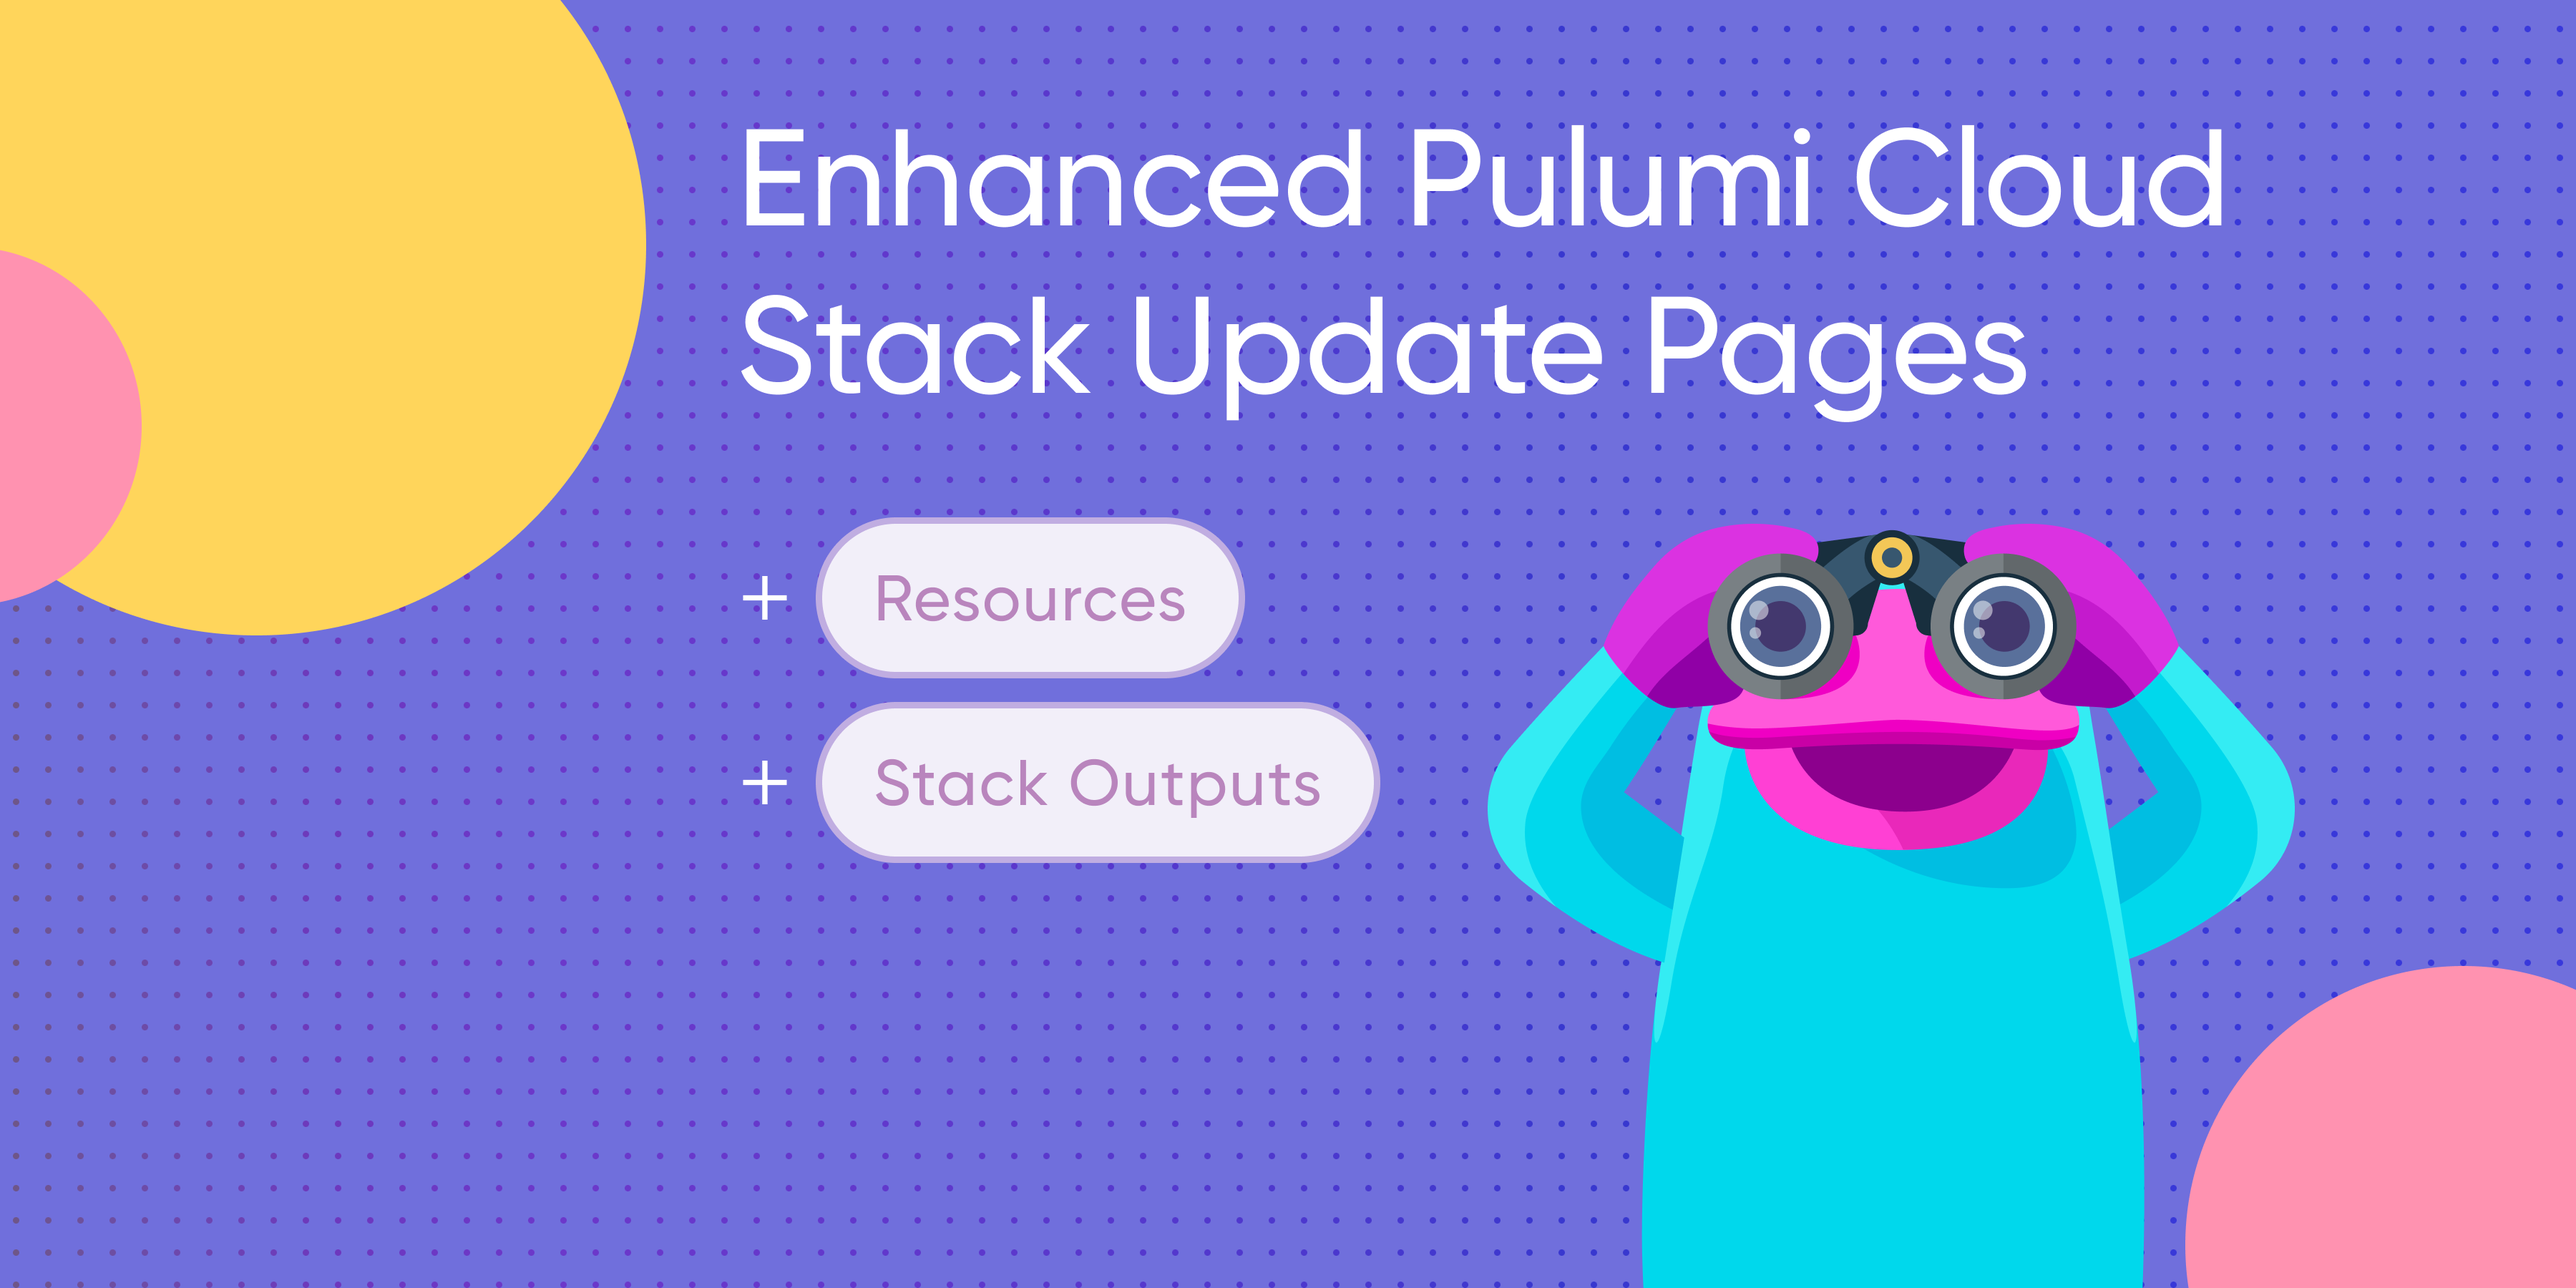
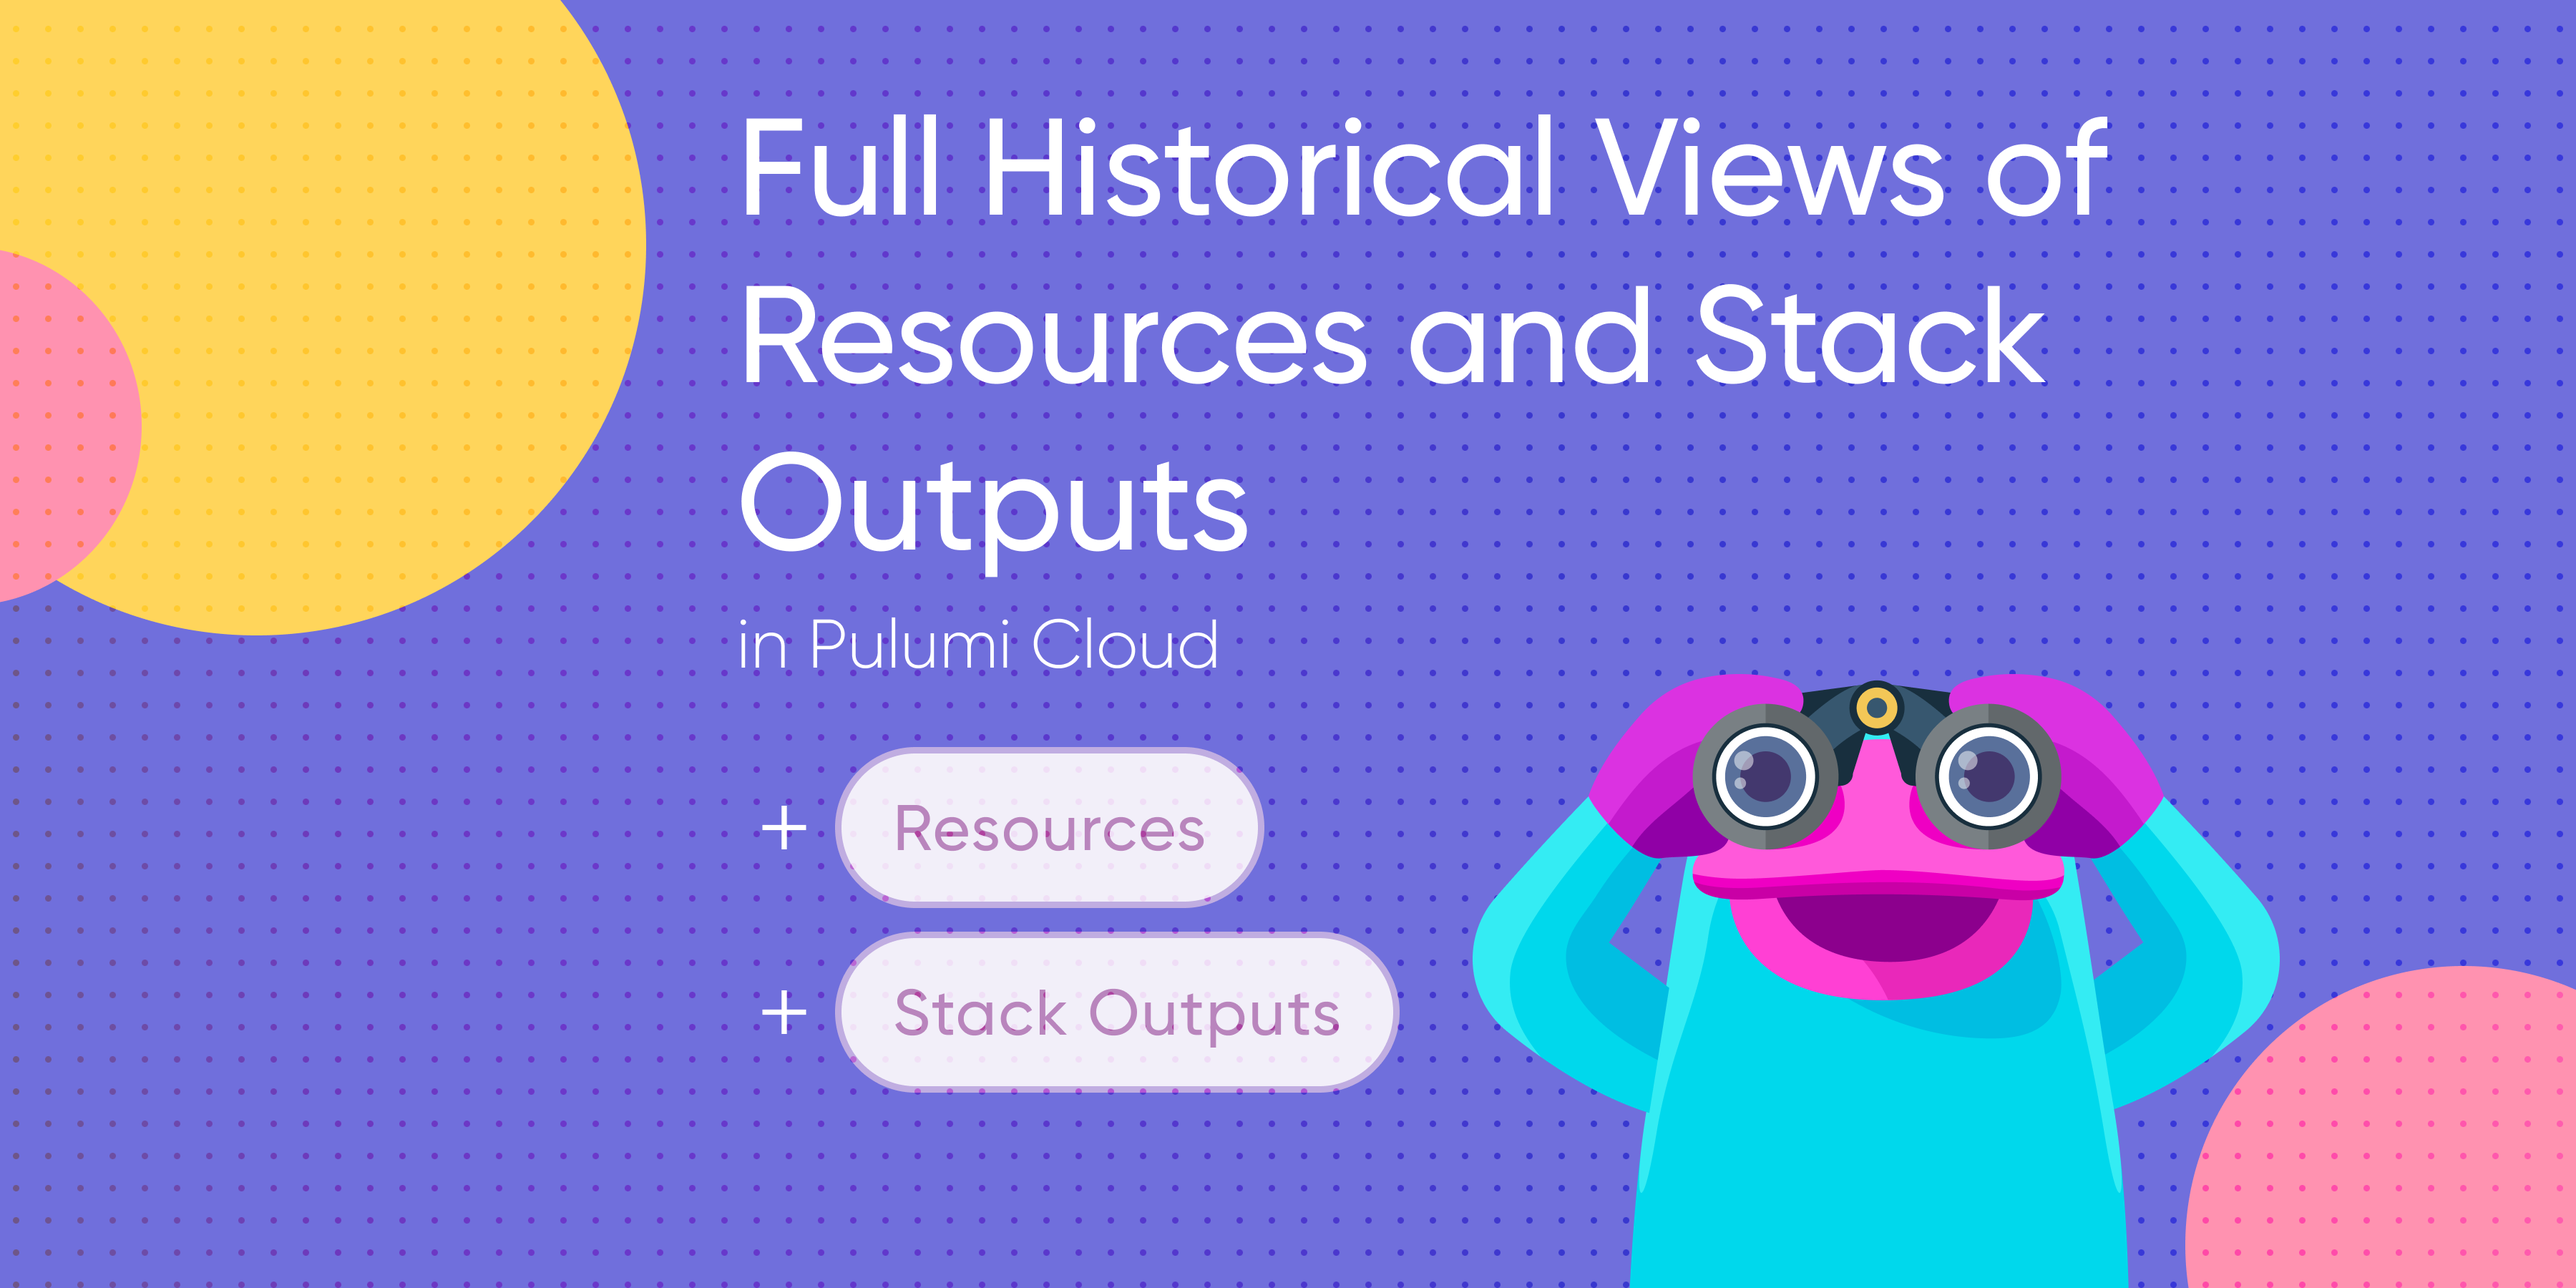
Final update

Changed region(s): [[0.28, 0.3422, 0.9956, 1.0], [0.28, 0.0933, 0.8711, 0.1867], [0.28, 0.2178, 0.8089, 0.3422]]

diff --git a/themes/default/content/blog/update-page-improvements/index.md b/themes/default/content/blog/update-page-improvements/index.md
@@ -1,5 +1,5 @@
 ---
-title: "Enhanced Pulumi Cloud Stack Update Pages"
+title: "Pulumi Cloud Gets Full Historical Views of Resources and Stack Outputs"
 
 # The date represents the post's publish date, and by default corresponds with
 # the date and time this file was generated. Dates are used for display and
